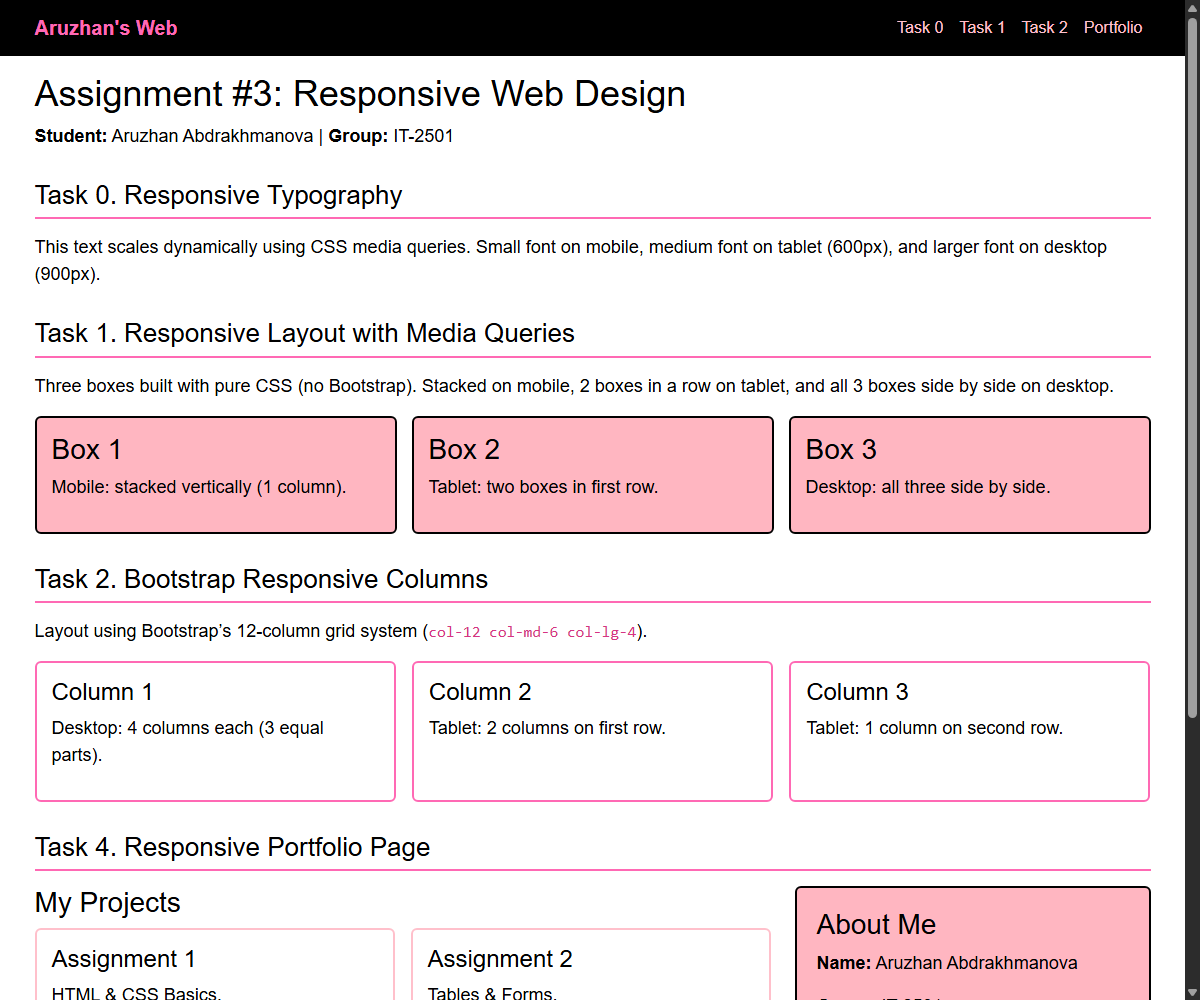
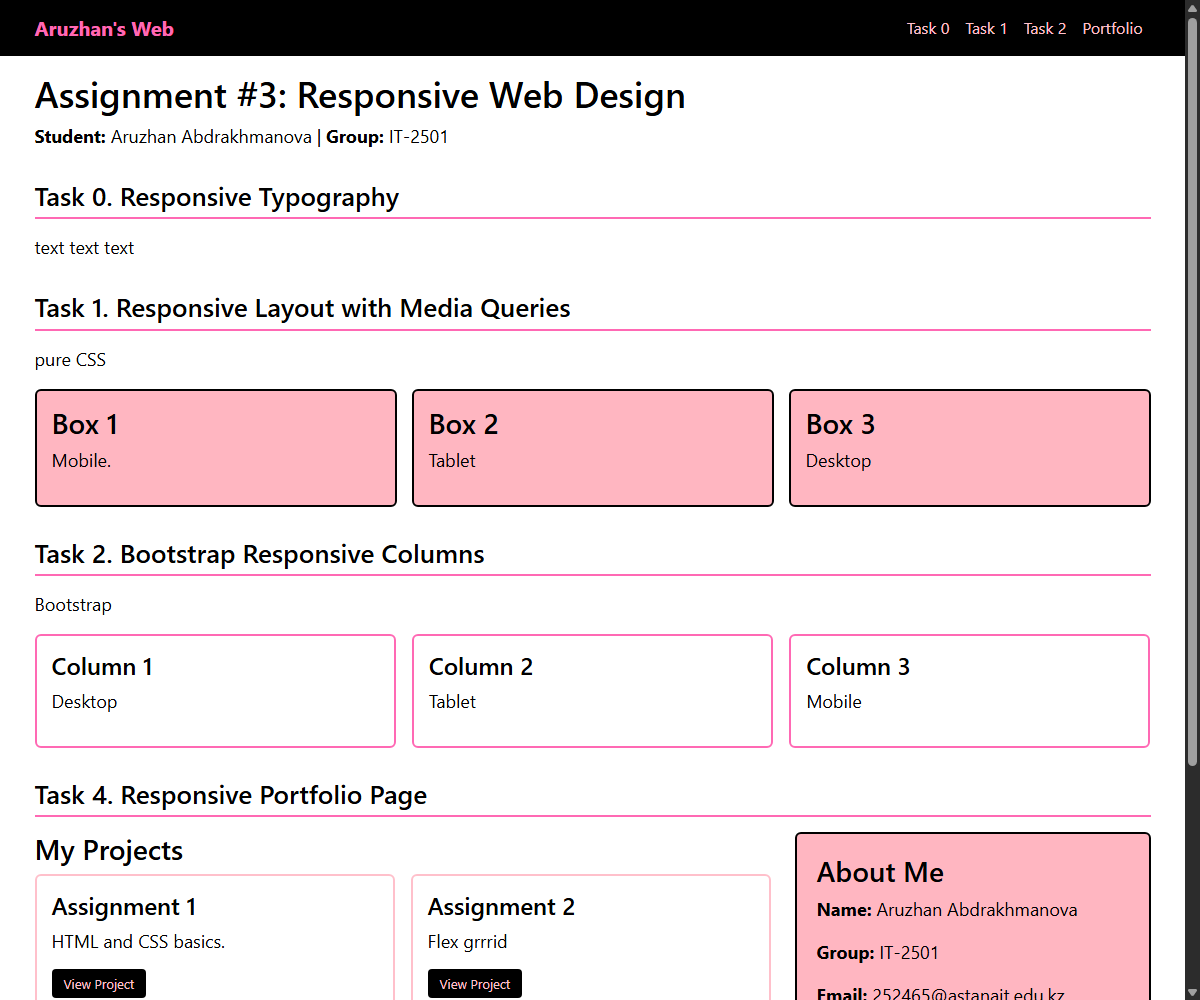
Remove !important, display: inline-block, and &copy; entity

diff --git a/index.html b/index.html
@@ -3,39 +3,38 @@
 <head>
     <meta charset="UTF-8">
     <meta name="viewport" content="width=device-width, initial-scale=1.0">
-    <title>Assignment 3 - Responsive Web Design | Aruzhan Abdrakhmanova</title>
+    <title>Assignment 3</title>
 
-    <!-- Bootstrap 5 -->
     <link href="https://cdn.jsdelivr.net/npm/bootstrap@5.3.3/dist/css/bootstrap.min.css" rel="stylesheet">
 
     <style>
         body {
-            font-family: Arial, sans-serif;
+            
             background-color: white;
             color: black;
             margin: 0;
             padding: 0;
         }
 
-        /* Task 3 & 4: Navigation Bar */
         .navbar-custom {
             background-color: black;
         }
 
-        .navbar-brand {
-            color: hotpink !important;
+        .navbar-custom .navbar-brand {
+            color: hotpink;
             font-weight: bold;
         }
 
-        .nav-link {
-            color: pink !important;
+        .navbar-custom .nav-link {
+            color: pink;
         }
 
-        .nav-link:hover, .nav-link.active {
-            color: white !important;
+        .navbar-custom .nav-link:hover,
+        .navbar-custom .nav-link.active {
+            color: white;
         }
 
-        /* Section Headings */
+        
         .section-title {
             color: black;
             border-bottom: 2px solid hotpink;
@@ -44,7 +43,6 @@
             margin-bottom: 15px;
         }
 
-        /* Task 0: Responsive Typography */
         h1 {
             font-size: 22px;
             color: black;
@@ -61,7 +59,6 @@
             line-height: 1.5;
         }
 
-        /* Task 1: 3 Boxes Layout using pure CSS media queries */
         .boxes {
             display: grid;
             grid-template-columns: 1fr;
@@ -76,7 +73,6 @@
             color: black;
         }
 
-        /* Task 2: Bootstrap 12-Column Boxes */
         .col-box {
             background-color: white;
             border: 2px solid hotpink;
@@ -86,7 +82,6 @@
             color: black;
         }
 
-        /* Task 4: Portfolio Cards & Sidebar */
         .project-card {
             background-color: white;
             border: 2px solid pink;
@@ -100,7 +95,6 @@
             background-color: black;
             color: pink;
             text-decoration: none;
-            display: inline-block;
             padding: 6px 12px;
             border-radius: 4px;
             font-size: 13px;
@@ -120,7 +114,6 @@
             color: black;
         }
 
-        /* Element Visibility: hidden on mobile, display: block on tablet/desktop */
         .extra-info {
             display: none;
             color: deeppink;
@@ -128,7 +121,6 @@
             margin-top: 10px;
         }
 
-        /* Footer */
         footer {
             background-color: black;
             color: pink;
@@ -137,7 +129,6 @@
             margin-top: 40px;
         }
 
-        /* Media Queries for Tablet (>= 600px) */
         @media (min-width: 600px) {
             h1 {
                 font-size: 28px;
@@ -160,7 +151,6 @@
             }
         }
 
-        /* Media Queries for Desktop (>= 900px) */
         @media (min-width: 900px) {
             h1 {
                 font-size: 36px;
@@ -182,7 +172,6 @@
 </head>
 <body>
 
-    <!-- Task 3: Bootstrap Responsive Navigation Bar -->
     <header>
         <nav class="navbar navbar-expand-md navbar-dark navbar-custom">
             <div class="container">
@@ -208,90 +197,74 @@
 
     <main class="container py-3">
 
-        <!-- Student Info Header -->
         <div class="mb-3">
-            <h1>Assignment #3: Responsive Web Design</h1>
-            <p><strong>Student:</strong> Aruzhan Abdrakhmanova | <strong>Group:</strong> IT-2501</p>
+            <h1>Assignment 3</h1>
+            <p>Aruzhan IT-2501</p>
         </div>
 
-        <!-- ========================================================
-             Part 1. Media Queries
-             Task 0. Responsive Typography
-             ======================================================== -->
+       
         <section id="task0">
             <h2 class="section-title">Task 0. Responsive Typography</h2>
             <p>
-                This text scales dynamically using CSS media queries. Small font on mobile, medium font on tablet (600px), and larger font on desktop (900px).
+                text text text
             </p>
         </section>
 
-        <!-- ========================================================
-             Part 1. Media Queries
-             Task 1. Responsive Layout with Media Queries
-             ======================================================== -->
+    
         <section id="task1">
             <h2 class="section-title">Task 1. Responsive Layout with Media Queries</h2>
             <p>
-                Three boxes built with pure CSS (no Bootstrap). Stacked on mobile, 2 boxes in a row on tablet, and all 3 boxes side by side on desktop.
+                pure CSS
             </p>
 
             <div class="boxes">
                 <div class="box">
                     <h3>Box 1</h3>
-                    <p>Mobile: stacked vertically (1 column).</p>
+                    <p>Mobile.</p>
                 </div>
                 <div class="box">
                     <h3>Box 2</h3>
-                    <p>Tablet: two boxes in first row.</p>
+                    <p>Tablet</p>
                 </div>
                 <div class="box">
                     <h3>Box 3</h3>
-                    <p>Desktop: all three side by side.</p>
+                    <p>Desktop</p>
                 </div>
             </div>
         </section>
 
-        <!-- ========================================================
-             Part 2. Bootstrap Grid System
-             Task 2. Bootstrap Responsive Columns
-             ======================================================== -->
         <section id="task2">
             <h2 class="section-title">Task 2. Bootstrap Responsive Columns</h2>
             <p>
-                Layout using Bootstrap’s 12-column grid system (<code>col-12 col-md-6 col-lg-4</code>).
+                Bootstrap
             </p>
 
             <div class="row g-3">
                 <div class="col-12 col-md-6 col-lg-4">
                     <div class="col-box">
                         <h4>Column 1</h4>
-                        <p>Desktop: 4 columns each (3 equal parts).</p>
+                        <p>Desktop</p>
                     </div>
                 </div>
                 <div class="col-12 col-md-6 col-lg-4">
                     <div class="col-box">
                         <h4>Column 2</h4>
-                        <p>Tablet: 2 columns on first row.</p>
+                        <p>Tablet</p>
                     </div>
                 </div>
                 <div class="col-12 col-md-6 col-lg-4">
                     <div class="col-box">
                         <h4>Column 3</h4>
-                        <p>Tablet: 1 column on second row.</p>
+                        <p>Mobile</p>
                     </div>
                 </div>
             </div>
         </section>
 
-        <!-- ========================================================
-             Part 3. Combined Project
-             Task 4. Responsive Portfolio Page
-             ======================================================== -->
         <section id="task4">
             <h2 class="section-title">Task 4. Responsive Portfolio Page</h2>
 
             <div class="row g-4">
-                <!-- Left side: Portfolio projects -->
                 <div class="col-lg-8">
                     <h3>My Projects</h3>
 
@@ -299,7 +272,7 @@
                         <div class="col-md-6">
                             <div class="project-card">
                                 <h4>Assignment 1</h4>
-                                <p>HTML & CSS Basics.</p>
+                                <p>HTML and CSS basics.</p>
                                 <a href="#" class="project-btn">View Project</a>
                             </div>
                         </div>
@@ -307,7 +280,7 @@
                         <div class="col-md-6">
                             <div class="project-card">
                                 <h4>Assignment 2</h4>
-                                <p>Tables & Forms.</p>
+                                <p>Flex grrrid</p>
                                 <a href="#" class="project-btn">View Project</a>
                             </div>
                         </div>
@@ -315,29 +288,28 @@
                         <div class="col-md-6">
                             <div class="project-card">
                                 <h4>Assignment 3</h4>
-                                <p>Responsive Web Design.</p>
+                                <p>Responsive web design</p>
                                 <a href="#" class="project-btn">View Project</a>
                             </div>
                         </div>
 
                         <div class="col-md-6">
                             <div class="project-card">
-                                <h4>Final Project</h4>
-                                <p>Personal Portfolio Website.</p>
+                                <h4>Midterm</h4>
+                                <p>Cafe</p>
                                 <a href="#" class="project-btn">View Project</a>
                             </div>
                         </div>
                     </div>
                 </div>
 
-                <!-- Right side: Sidebar with personal info -->
                 <div class="col-lg-4">
                     <div class="sidebar-box">
                         <h3>About Me</h3>
                         <p><strong>Name:</strong> Aruzhan Abdrakhmanova</p>
                         <p><strong>Group:</strong> IT-2501</p>
-                        <p><strong>Email:</strong> aruzhan@astanait.edu.kz</p>
-                        <p class="extra-info">Information Technology student at Astana IT University.</p>
+                        <p><strong>Email:</strong> 252465@astanait.edu.kz</p>
+                        <p class="extra-info">AITU</p>
                     </div>
                 </div>
             </div>
@@ -345,14 +317,12 @@
 
     </main>
 
-    <!-- Footer -->
     <footer>
         <div class="container">
-            <p style="color: pink; margin: 0;">&copy; 2026 Aruzhan Abdrakhmanova | IT-2501 | Astana IT University</p>
+            <p style="color: pink; margin: 0;">Aruzhan Abdrakhmanova IT-2501 Astana IT University</p>
         </div>
     </footer>
 
-    <!-- Bootstrap 5 JS Bundle -->
     <script src="https://cdn.jsdelivr.net/npm/bootstrap@5.3.3/dist/js/bootstrap.bundle.min.js"></script>
 </body>
 </html>
